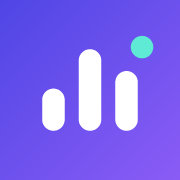
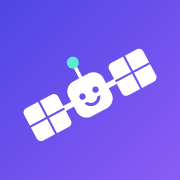
Change the mark to a smiling satellite

Changed region(s): [[0.1111, 0.1944, 0.8889, 0.8056]]

diff --git a/tray/internal/art/art.go b/tray/internal/art/art.go
@@ -1,8 +1,8 @@
 // SPDX-License-Identifier: GPL-3.0-or-later
 
-// Package art draws NodeMon's mark (three rising bars and a small "live" dot on a colored tile). The tray icon and the
-// dashboard's app icons (browser tab, iPhone home screen) are all drawn from it, so they stay one family. Drawing in
-// code means no image files have to be kept in sync with the program.
+// Package art draws NodeMon's mark: a small smiling satellite (solar panels, an antenna with a "live" ball) on a colored
+// tile. The tray icon and the dashboard's app icons (browser tab, iPhone home screen) are all drawn from it, so they
+// stay one family. Drawing in code means no image files have to be kept in sync with the program.
 package art
 
 import (
@@ -15,41 +15,79 @@ import (
 type Params struct {
 	Top, Bottom color.RGBA // the tile's color fades from Top (upper left) to Bottom (lower right)
 	Corner      float64    // corner radius as a share of the size; 0 fills the whole square (what iOS wants, it rounds the corners itself)
-	Scale       float64    // how large the bars are drawn around the center (0 means 1); small icons use more of the tile
-	Dot         bool       // the live dot above the bars
-	DotColor    color.RGBA
+	Scale       float64    // how large the satellite is drawn around the center (0 means 1); small icons use more of the tile
+	Detail      bool       // the face and the panel cells; too fine to read at menu bar size
+	DotColor    color.RGBA // the antenna ball; white when left empty
 }
 
-// Everything is described on a 512-unit canvas and scaled to the requested size.
-const unit = 512.0
+// Everything is described on a 512-unit canvas and scaled to the requested size. The satellite is drawn in its own
+// frame (u to the right, v down, origin at its center) and tilted so the panels point up to the right.
+const (
+	unit  = 512.0
+	tilt  = 28 * math.Pi / 180
+	baseY = 270.0 // a little below the middle, because the antenna adds height on top
+)
 
-var bars = [][4]float64{ // x, top, width, bottom; the ends are rounded
-	{120, 252, 64, 372},
-	{224, 140, 64, 372},
-	{328, 202, 64, 372},
+type paint int
+
+const (
+	none    paint = iota
+	white         // the satellite
+	cut           // shows the tile's own color again: panel cells, eyes, smile
+	antenna       // the ball on top
+)
+
+func inRoundRect(u, v, cu, cv, w, h, r float64) bool {
+	dx := math.Max(math.Abs(u-cu)-(w/2-r), 0)
+	dy := math.Max(math.Abs(v-cv)-(h/2-r), 0)
+	return dx*dx+dy*dy <= r*r
 }
 
-func inRoundBar(x, y float64, b [4]float64) bool {
-	r := b[2] / 2
-	cx := b[0] + r
-	switch {
-	case y < b[1] || y > b[3] || x < b[0] || x > b[0]+b[2]:
-		return false
-	case y < b[1]+r:
-		return math.Hypot(x-cx, y-(b[1]+r)) <= r
-	case y > b[3]-r:
-		return math.Hypot(x-cx, y-(b[3]-r)) <= r
+// satellite says what is drawn at one point of its own frame.
+func satellite(u, v float64, detail bool) paint {
+	au := math.Abs(u)
+	// The antenna: a stem and a ball.
+	if math.Hypot(u, v+104) <= 17 {
+		return antenna
 	}
-	return true
+	if au <= 5 && v >= -92 && v <= -50 {
+		return white
+	}
+	// The body.
+	if inRoundRect(u, v, 0, 0, 112, 112, 32) {
+		if detail {
+			if math.Hypot(au-21, v+6) <= 9 { // eyes
+				return cut
+			}
+			if d := math.Hypot(u, v-6); v >= 14 && math.Abs(d-22) <= 4.5 { // smile
+				return cut
+			}
+		}
+		return white
+	}
+	// The arms and the two solar panels.
+	if au >= 50 && au <= 82 && math.Abs(v) <= 8 {
+		return white
+	}
+	if au >= 82 && au <= 192 && inRoundRect(au, v, 137, 0, 110, 104, 14) {
+		if detail && (math.Abs(au-137) <= 3 || math.Abs(v) <= 3) { // cells
+			return cut
+		}
+		return white
+	}
+	return none
 }
 
 func inTile(x, y, radius float64) bool {
+	if x < 0 || x > unit || y < 0 || y > unit {
+		return false
+	}
 	if radius <= 0 {
-		return x >= 0 && x <= unit && y >= 0 && y <= unit
+		return true
 	}
 	dx := math.Max(math.Max(radius-x, x-(unit-radius)), 0)
 	dy := math.Max(math.Max(radius-y, y-(unit-radius)), 0)
-	return dx*dx+dy*dy <= radius*radius && x >= 0 && x <= unit && y >= 0 && y <= unit
+	return dx*dx+dy*dy <= radius*radius
 }
 
 func mix(a, b color.RGBA, t float64) color.RGBA {
@@ -61,13 +99,18 @@ func mix(a, b color.RGBA, t float64) color.RGBA {
 func Render(size int, p Params) *image.RGBA {
 	const ss = 4
 	img := image.NewRGBA(image.Rect(0, 0, size, size))
-	white := color.RGBA{0xff, 0xff, 0xff, 0xff}
-	radius := p.Corner * unit
-	scale := unit / float64(size)
+	snow := color.RGBA{0xff, 0xff, 0xff, 0xff}
+	ball := p.DotColor
+	if ball.A == 0 {
+		ball = snow
+	}
 	glyph := p.Scale
 	if glyph == 0 {
 		glyph = 1
 	}
+	radius := p.Corner * unit
+	scale := unit / float64(size)
+	sin, cos := math.Sincos(tilt)
 	for py := 0; py < size; py++ {
 		for px := 0; px < size; px++ {
 			var r, g, b, cover float64
@@ -79,15 +122,12 @@ func Render(size int, p Params) *image.RGBA {
 						continue
 					}
 					c := mix(p.Top, p.Bottom, math.Min(1, math.Max(0, (x+y)/(2*unit))))
-					gx, gy := unit/2+(x-unit/2)/glyph, unit/2+(y-unit/2)/glyph // the bars live on the unscaled canvas
-					for _, bar := range bars {
-						if inRoundBar(gx, gy, bar) {
-							c = white
-							break
-						}
-					}
-					if p.Dot && math.Hypot(gx-404, gy-134) <= 32 {
-						c = p.DotColor
+					dx, dy := (x-unit/2)/glyph, (y-baseY)/glyph
+					switch satellite(dx*cos-dy*sin, dx*sin+dy*cos, p.Detail) {
+					case white:
+						c = snow
+					case antenna:
+						c = ball
 					}
 					r, g, b, cover = r+float64(c.R), g+float64(c.G), b+float64(c.B), cover+1
 				}

diff --git a/tray/internal/art/art_test.go b/tray/internal/art/art_test.go
@@ -7,7 +7,7 @@ import (
 )
 
 func TestRender(t *testing.T) {
-	p := Params{Top: color.RGBA{0x4f, 0x46, 0xe5, 0xff}, Bottom: color.RGBA{0x8b, 0x5c, 0xf6, 0xff}, Corner: 0.22, Dot: true, DotColor: color.RGBA{0x5e, 0xea, 0xd4, 0xff}}
+	p := Params{Top: color.RGBA{0x4f, 0x46, 0xe5, 0xff}, Bottom: color.RGBA{0x8b, 0x5c, 0xf6, 0xff}, Corner: 0.22, Detail: true, DotColor: color.RGBA{0x5e, 0xea, 0xd4, 0xff}}
 	img := Render(128, p)
 	if _, _, _, a := img.At(0, 0).RGBA(); a != 0 {
 		t.Error("the rounded corner must be transparent")
@@ -15,8 +15,8 @@ func TestRender(t *testing.T) {
 	if _, _, _, a := img.At(64, 120).RGBA(); a == 0 {
 		t.Error("the tile must be filled")
 	}
-	if r, g, b, _ := img.At(64, 70).RGBA(); r>>8 < 250 || g>>8 < 250 || b>>8 < 250 { // inside the tallest bar
-		t.Errorf("the bar must be white, got %d %d %d", r>>8, g>>8, b>>8)
+	if r, g, b, _ := img.At(64, 68).RGBA(); r>>8 < 250 || g>>8 < 250 || b>>8 < 250 { // the middle of the satellite's body
+		t.Errorf("the body must be white, got %d %d %d", r>>8, g>>8, b>>8)
 	}
 	full := Render(64, Params{Top: p.Top, Bottom: p.Bottom})
 	if _, _, _, a := full.At(0, 0).RGBA(); a>>8 != 255 {

diff --git a/tray/cmd/make-icons/main.go b/tray/cmd/make-icons/main.go
@@ -20,8 +20,8 @@ func main() {
 	if len(os.Args) != 2 {
 		log.Fatal("usage: make-icons <output folder>")
 	}
-	// The same indigo-to-violet as the dashboard's accent color, with a mint dot for "live".
-	p := art.Params{Top: color.RGBA{0x4f, 0x46, 0xe5, 0xff}, Bottom: color.RGBA{0x8b, 0x5c, 0xf6, 0xff}, Dot: true, DotColor: color.RGBA{0x5e, 0xea, 0xd4, 0xff}}
+	// The same indigo-to-violet as the dashboard's accent color, with a mint ball on the antenna for "live".
+	p := art.Params{Top: color.RGBA{0x4f, 0x46, 0xe5, 0xff}, Bottom: color.RGBA{0x8b, 0x5c, 0xf6, 0xff}, Detail: true, DotColor: color.RGBA{0x5e, 0xea, 0xd4, 0xff}}
 	for name, size := range map[string]int{"apple-touch-icon.png": 180, "icon-192.png": 192, "icon-512.png": 512} {
 		f, err := os.Create(filepath.Join(os.Args[1], name))
 		if err != nil {

diff --git a/tray/icon.go b/tray/icon.go
@@ -20,7 +20,7 @@ var colors = map[state]color.RGBA{
 // makeIcon draws NodeMon's mark (three rising bars) on a rounded tile in the state's color, as a PNG.
 func makeIcon(c color.RGBA) []byte {
 	lighten := func(v uint8) uint8 { return v + (255-v)/5 }
-	img := art.Render(64, art.Params{Top: color.RGBA{lighten(c.R), lighten(c.G), lighten(c.B), 0xff}, Bottom: c, Corner: 0.22, Scale: 1.3})
+	img := art.Render(64, art.Params{Top: color.RGBA{lighten(c.R), lighten(c.G), lighten(c.B), 0xff}, Bottom: c, Corner: 0.22, Scale: 1.12})
 	var out bytes.Buffer
 	_ = png.Encode(&out, img)
 	return out.Bytes()

diff --git a/CHANGELOG.md b/CHANGELOG.md
@@ -8,7 +8,7 @@ NodeMon is an independent project, not affiliated with Netdata, Inc.
 ## [Unreleased]
 
 ### Added
-- App icons: a new NodeMon mark (three rising bars and a live dot) for the browser tab and the iPhone/Android home screen ("Add to Home Screen" now opens the dashboard like an app), and the same mark on the Linux/macOS status icon, now drawn with smooth edges.
+- App icons: a new NodeMon mark (a smiling satellite with a live antenna ball) for the browser tab and the iPhone/Android home screen ("Add to Home Screen" now opens the dashboard like an app), and the same mark on the Linux/macOS status icon, now drawn with smooth edges.
 
 ### Added
 - A status icon for Linux (next to the clock) and macOS (menu bar): `nodemon-tray` shows whether the connector is running and uploading (green, amber, red). The connector now writes `status.json` next to its credentials for it, and the Linux and macOS ZIPs include the icon program. GNOME needs the AppIndicator extension to show it.
